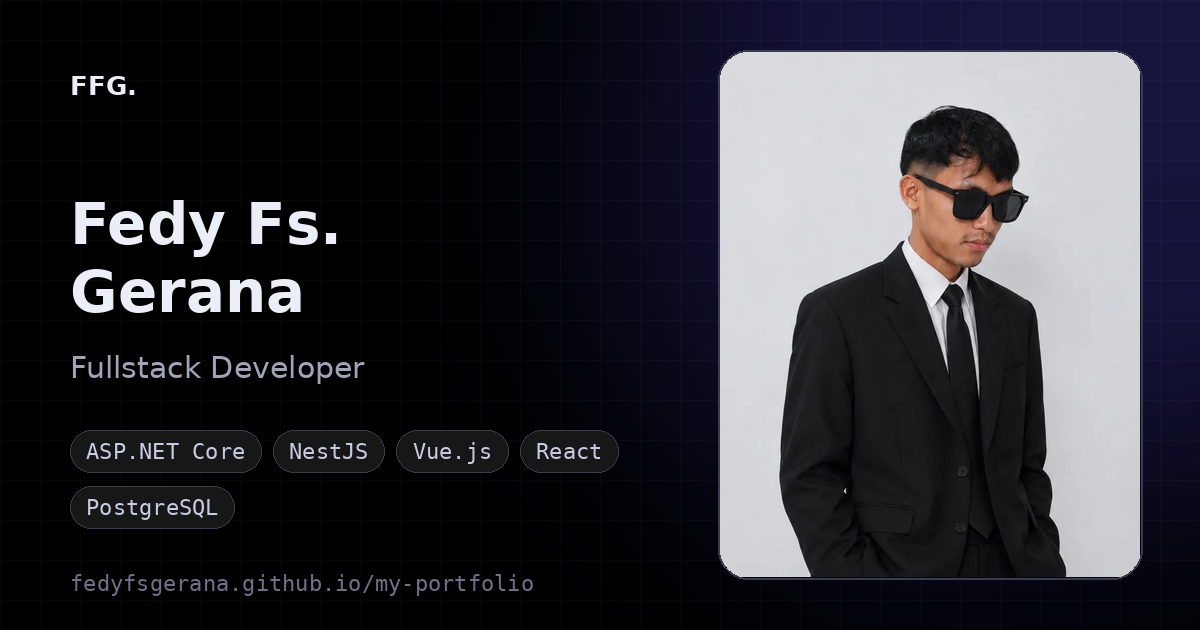
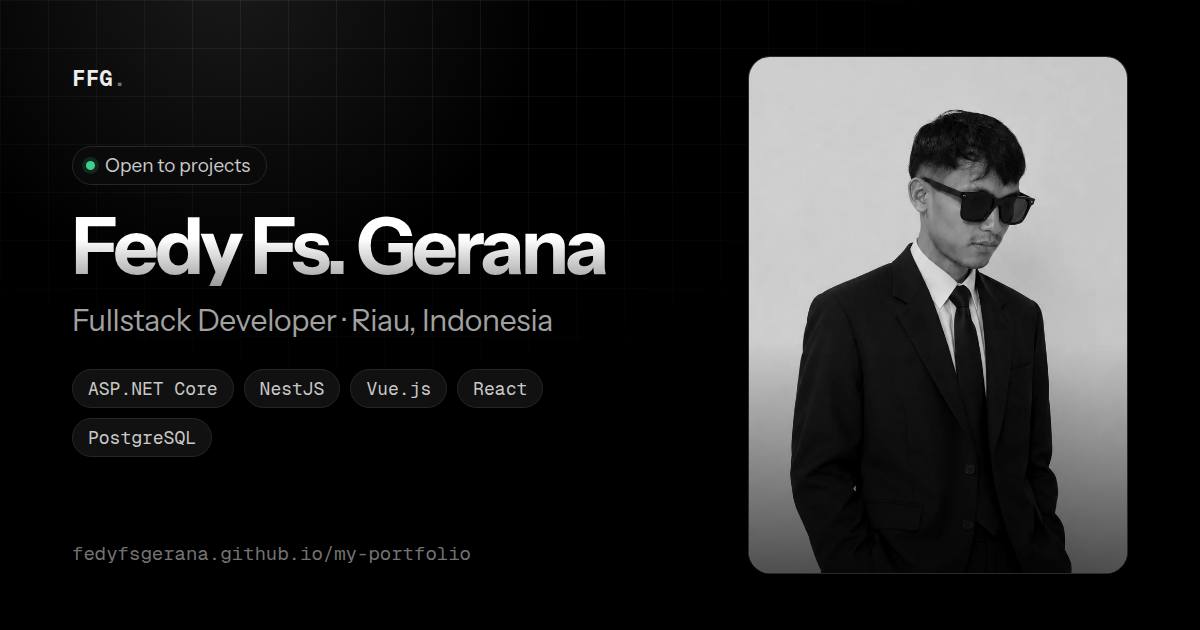
style: perbarui gambar pratinjau link dengan tema hitam

diff --git a/index.html b/index.html
@@ -19,21 +19,21 @@
     <meta property="og:title" content="Fedy Fs. Gerana — Fullstack Developer" />
     <meta
       property="og:description"
-      content="Fedy Fs. Gerana, Fullstack Developer di Riau, Indonesia. Membangun aplikasi web dengan ASP.NET Core, NestJS, Vue.js, React, dan PostgreSQL."
+      content="Fedy Fs. Gerana, Fullstack Developer based in Riau, Indonesia. Building web applications with ASP.NET Core, NestJS, Vue.js, React, and PostgreSQL."
     />
     <meta
       property="og:image"
-      content="https://fedyfsgerana.github.io/my-portfolio/og-image.png"
+      content="https://fedyfsgerana.github.io/my-portfolio/og-image.png?v=2"
     />
     <meta property="og:image:type" content="image/png" />
     <meta property="og:image:width" content="1200" />
     <meta property="og:image:height" content="630" />
     <meta
       property="og:image:alt"
-      content="Fedy Fs. Gerana, Fullstack Developer, dengan daftar teknologi ASP.NET Core, NestJS, Vue.js, React, dan PostgreSQL"
+      content="Fedy Fs. Gerana, Fullstack Developer, with ASP.NET Core, NestJS, Vue.js, React, and PostgreSQL"
     />
-    <meta property="og:locale" content="id_ID" />
-    <meta property="og:locale:alternate" content="en_US" />
+    <meta property="og:locale" content="en_US" />
+    <meta property="og:locale:alternate" content="id_ID" />
     <meta name="twitter:card" content="summary_large_image" />
     <meta
       name="twitter:title"
@@ -41,11 +41,11 @@
     />
     <meta
       name="twitter:description"
-      content="Fedy Fs. Gerana, Fullstack Developer di Riau, Indonesia. Membangun aplikasi web dengan ASP.NET Core, NestJS, Vue.js, React, dan PostgreSQL."
+      content="Fedy Fs. Gerana, Fullstack Developer based in Riau, Indonesia. Building web applications with ASP.NET Core, NestJS, Vue.js, React, and PostgreSQL."
     />
     <meta
       name="twitter:image"
-      content="https://fedyfsgerana.github.io/my-portfolio/og-image.png"
+      content="https://fedyfsgerana.github.io/my-portfolio/og-image.png?v=2"
     />
     <script type="application/ld+json">
       {
